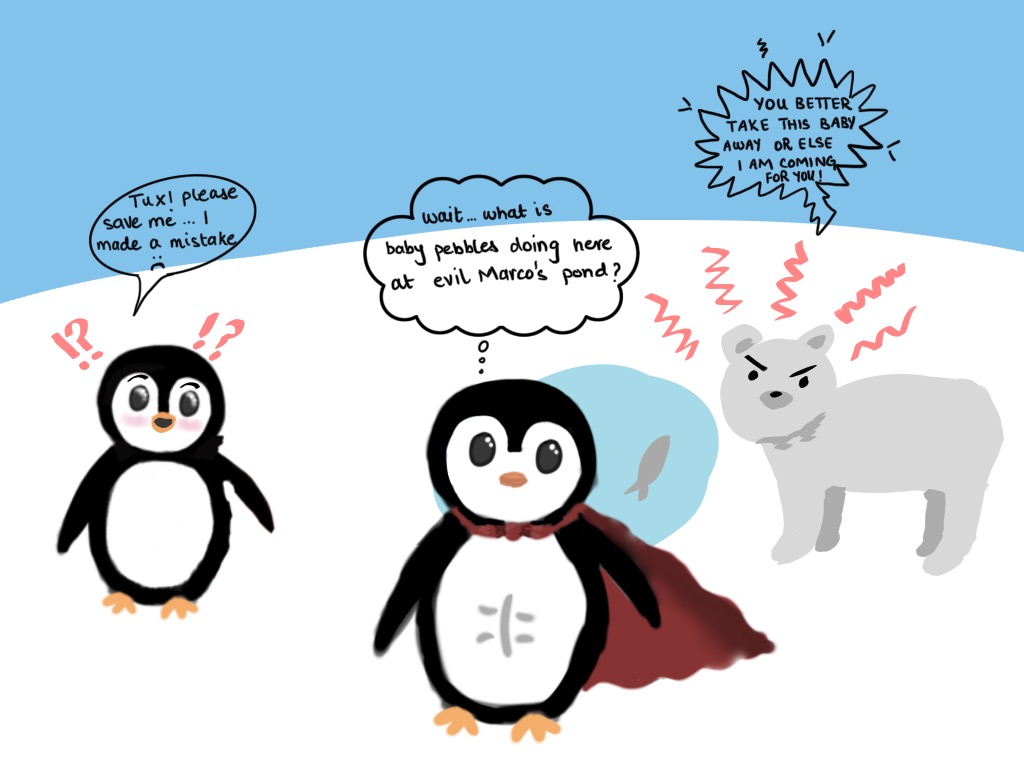
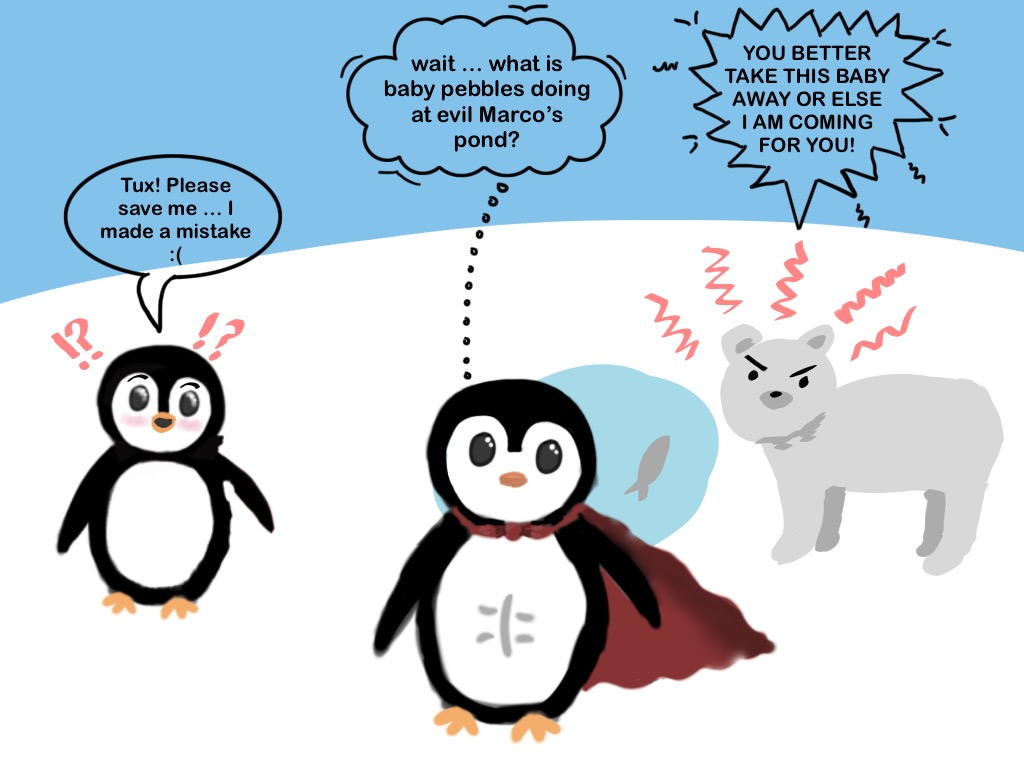
final dialogues with text

diff --git a/script.js b/script.js
@@ -19,7 +19,7 @@ function updatePanel() {
     prevBtn.disabled = (currentIndex === 0);
 
     // Hide "Next" and show dialogue box at panel 5 (for mainPanels)
-    if (currentPanels === mainPanels && currentIndex === 4) {
+    if (currentPanels === mainPanels && currentIndex === 8) {
         nextBtn.style.display = "none";
         dialogueOverlay.style.display = "block"; // Show dialogue box
     } else {
